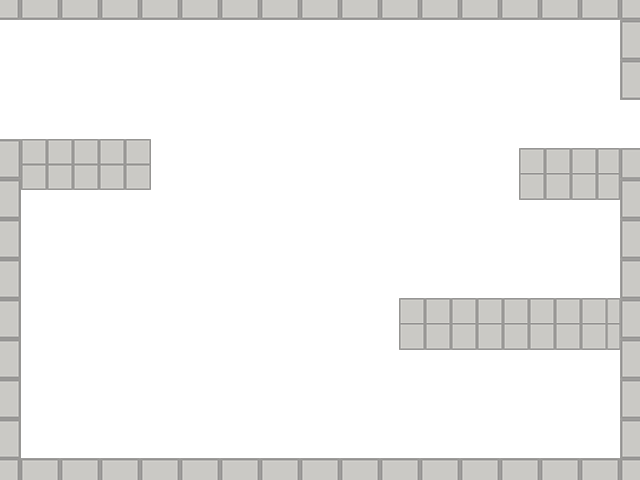
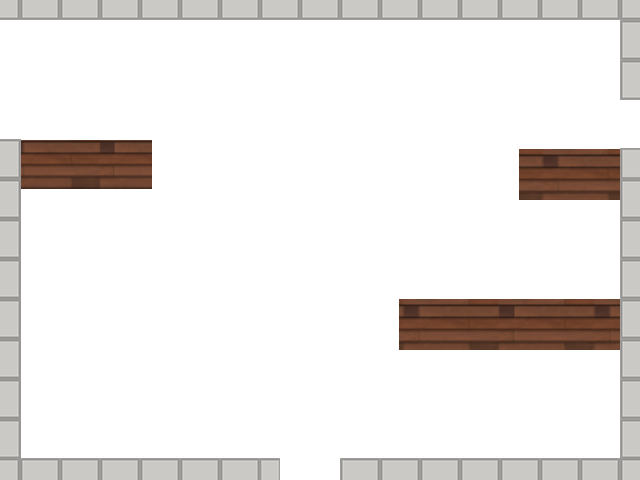
puiduga terass

diff --git a/Pygame_basic.py b/Pygame_basic.py
@@ -16,7 +16,7 @@ pygame.init()
 
 window = pygame.display.set_mode([sw,sh])
 taust = pygame.image.load("forest.png") ####################################### tausta laadimine
-seinad1 = pygame.image.load("level1.png")    ####################################### seina laadimine
+seinad1 = pygame.image.load("level2.png")    ####################################### seina laadimine
 
 class Person:
     def __init__(self,x,y,colour,drone=False,route=None):
